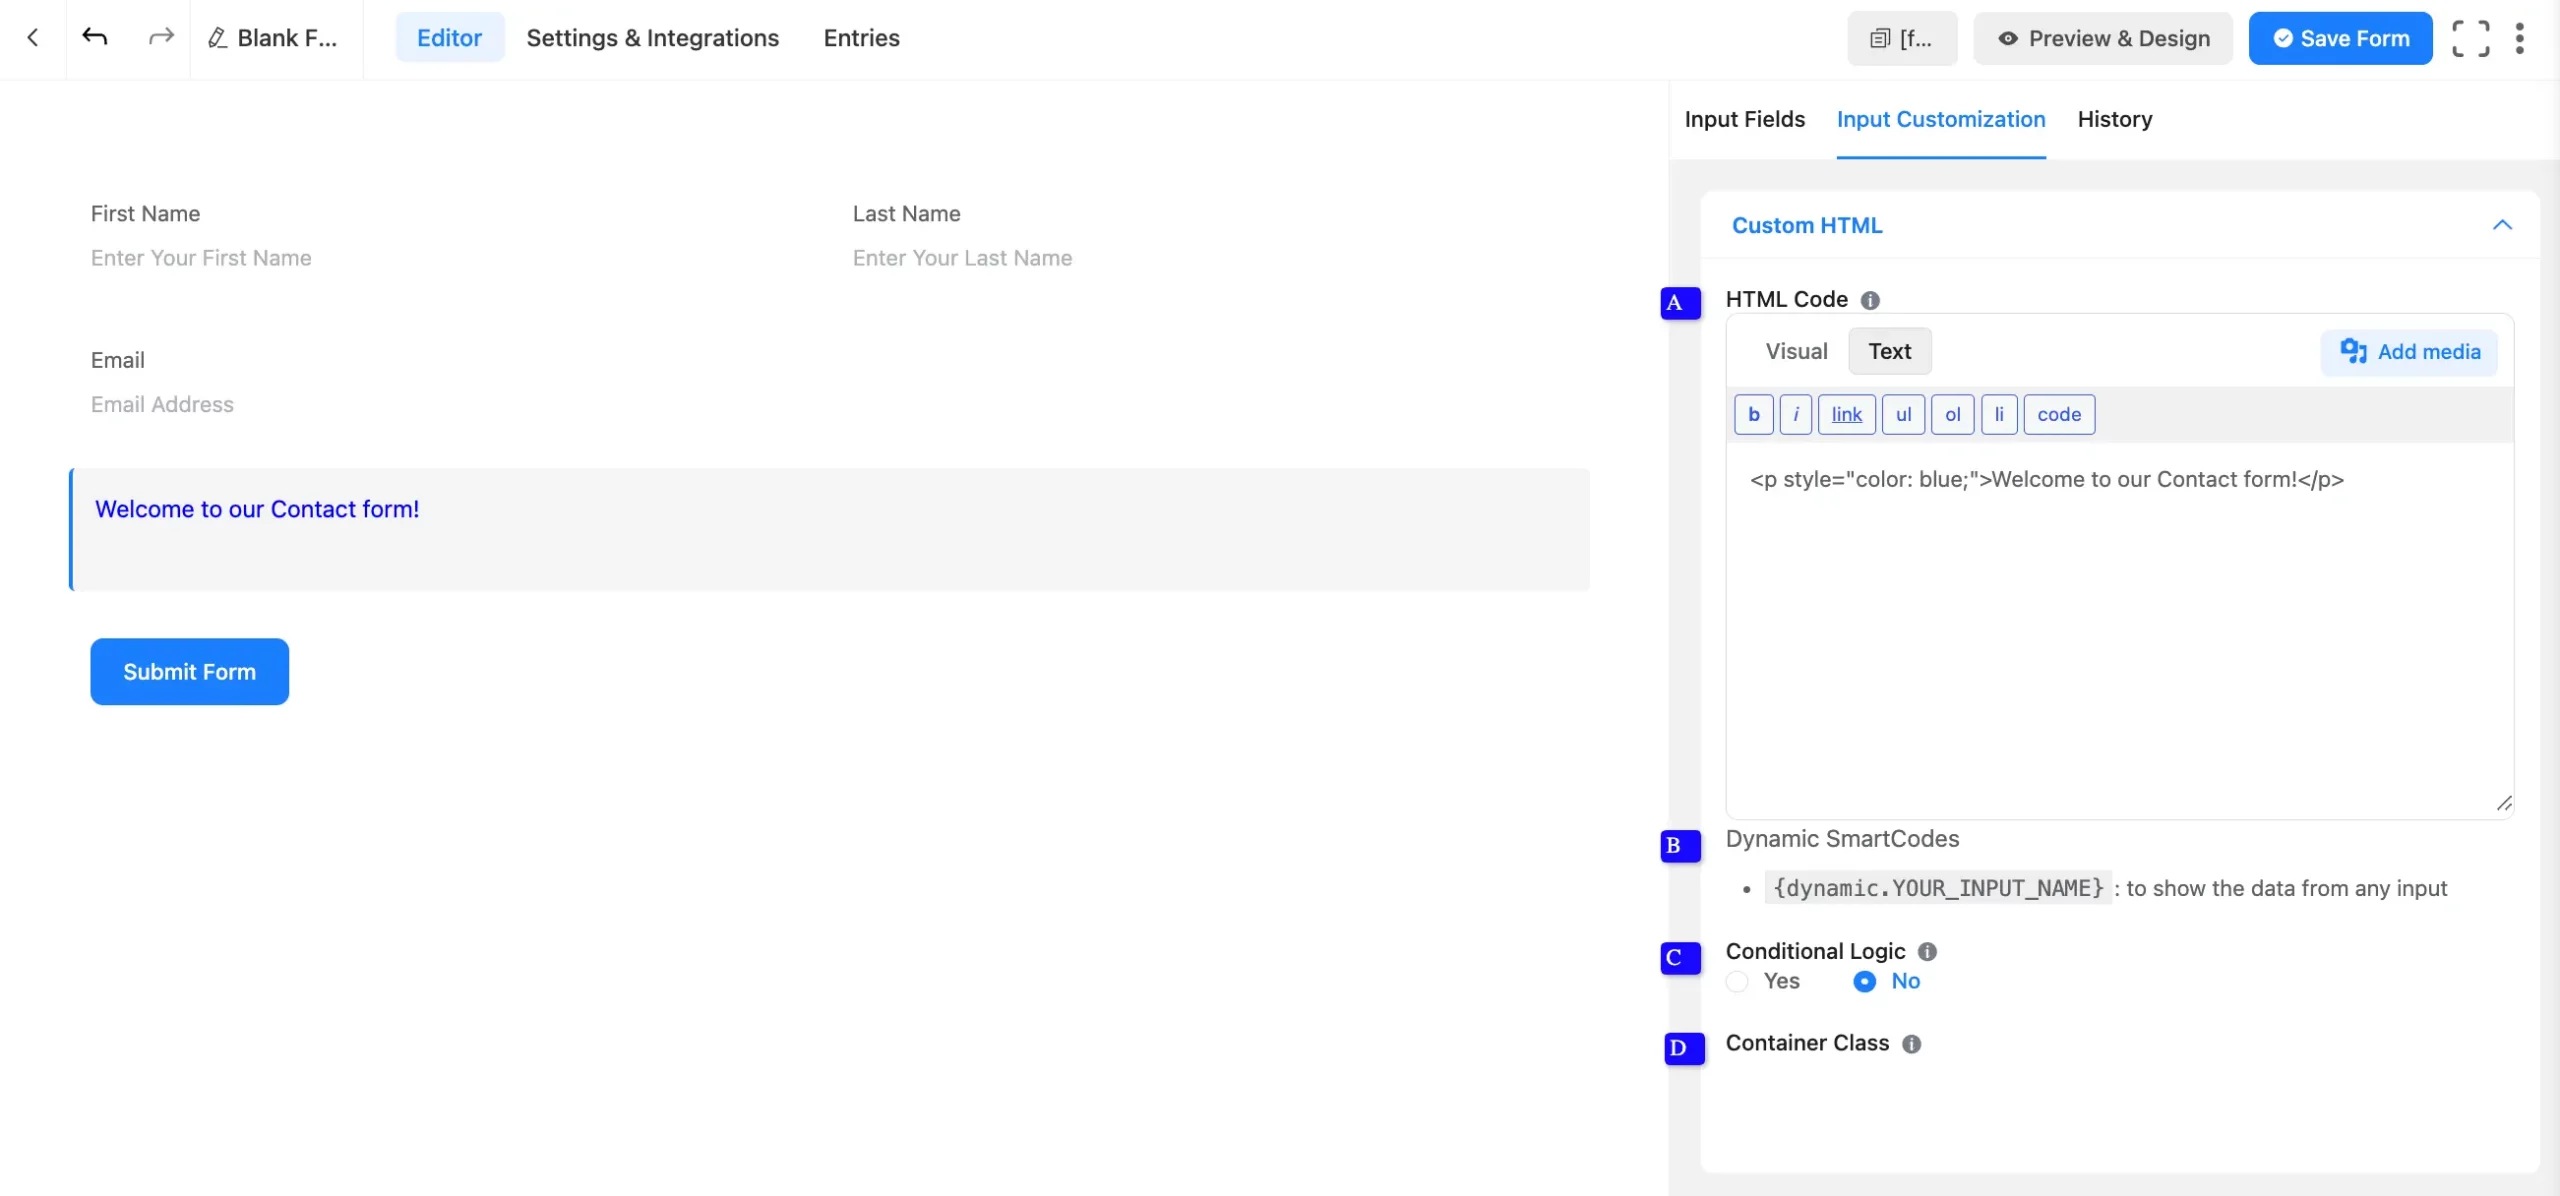
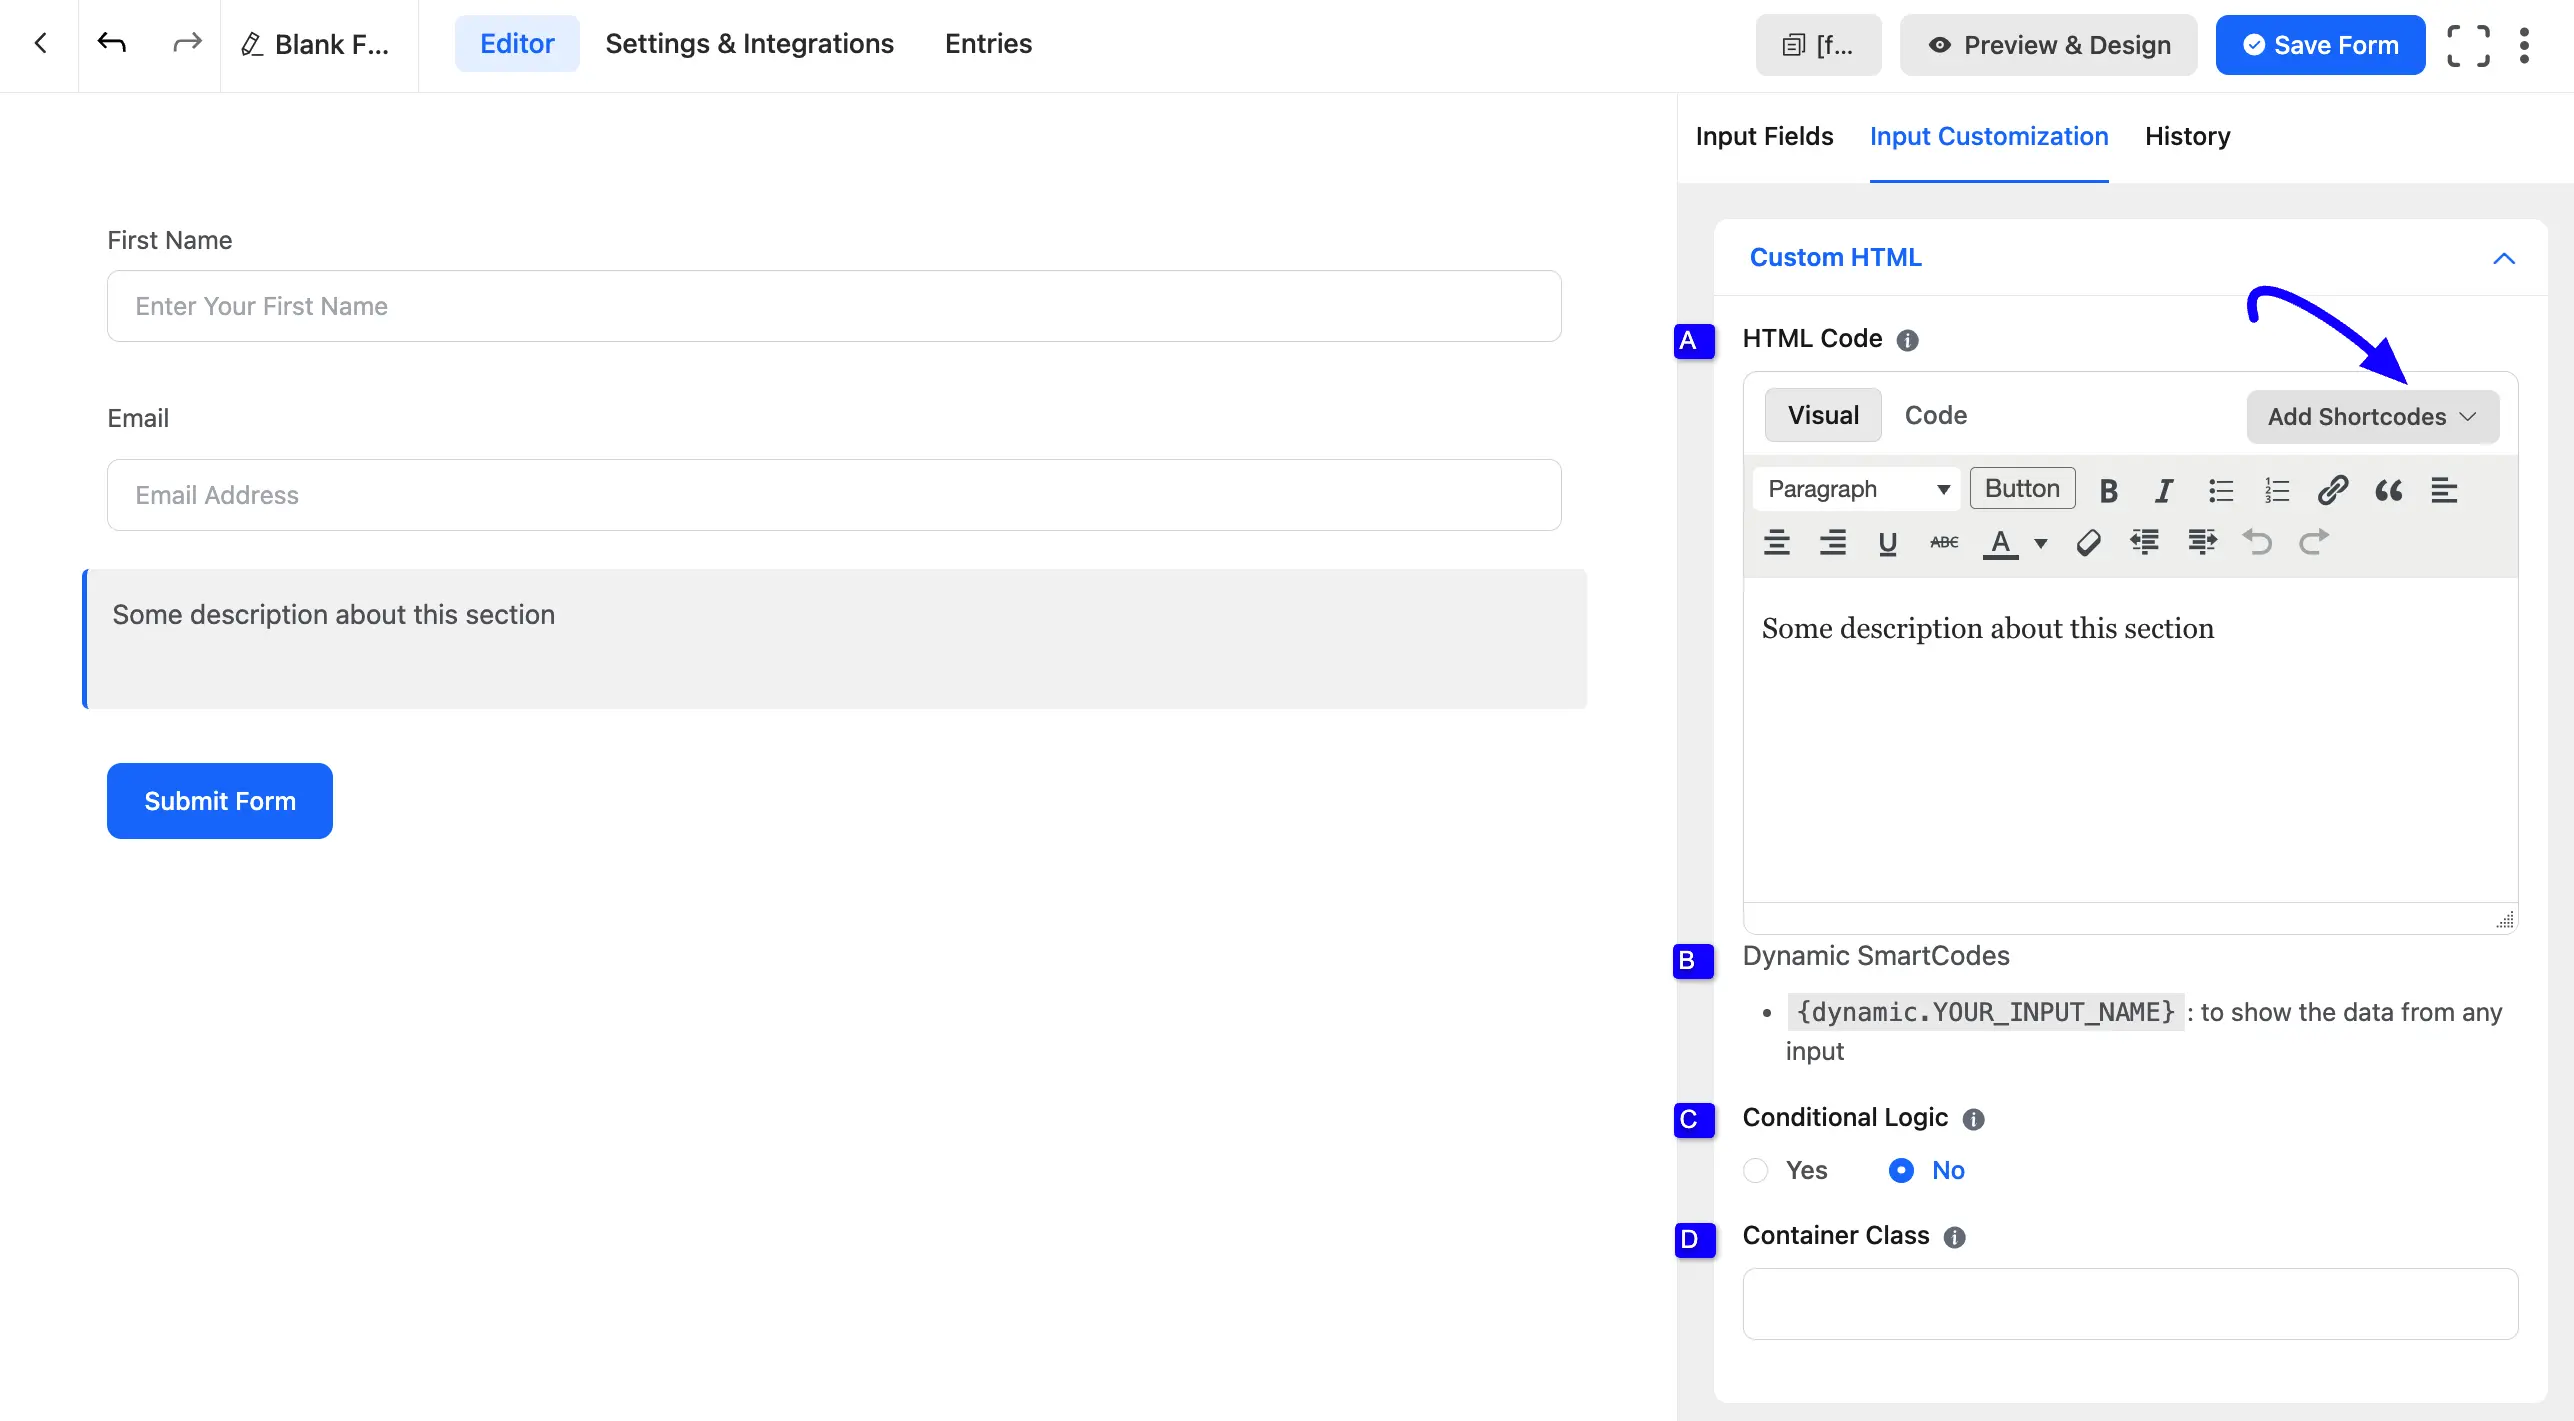
update custom html doc

diff --git a/docs/form-fields/general-fields/custom-html-field.md b/docs/form-fields/general-fields/custom-html-field.md
@@ -42,6 +42,11 @@ For example, the shortcode could be {dynamic.YOUR_INPUT_NAME}.
 
 > Other ShortCodes will work in this field as well.
 
+**Smart Code Picker:** You don't need to type smart codes by hand. Use the smart code picker in the **HTML Code** section to browse the available smart codes and insert one at your cursor position.
+
+- Click the **Add shortcodes** in the **HTML Code** section.
+- Select the smart code you want. It is added to your HTML code.
+
 **C. Conditional Logic:** This option allows you to create specific rules to dynamically hide/show the input field to function conditionally based on your submission values according to your set of conditional logics. To learn more, read [Set up Forms with Conditional Logic in Fluent Forms](/set-up-forms-with-conditional-logic). 
 
 **D. Container Class:** Use this option to add your custom CSS classes to the field’s wrapper. This can be used to style the current element.

diff --git a/docs/advanced-developer/shortcodes/using-helper-shortcodes.md b/docs/advanced-developer/shortcodes/using-helper-shortcodes.md
@@ -122,6 +122,9 @@ To show a specific value from a single form submission, use the **[ff_entry]** s
 [[ff_entry form_id='1' entry_id='{submission.id}' field='url']]
 ```
 
+> [!Note]
+> The **[ff_entry]** shortcode only shows entry data to users who can view entries and to the person who submitted that entry. Other visitors see nothing.
+
 #### Display GET Parameter Value
 
 If you pass data in a URL (e.g., your-site.com/page?my_param=hello), you can display that value on the page using the **[ff_get]** shortcode.
